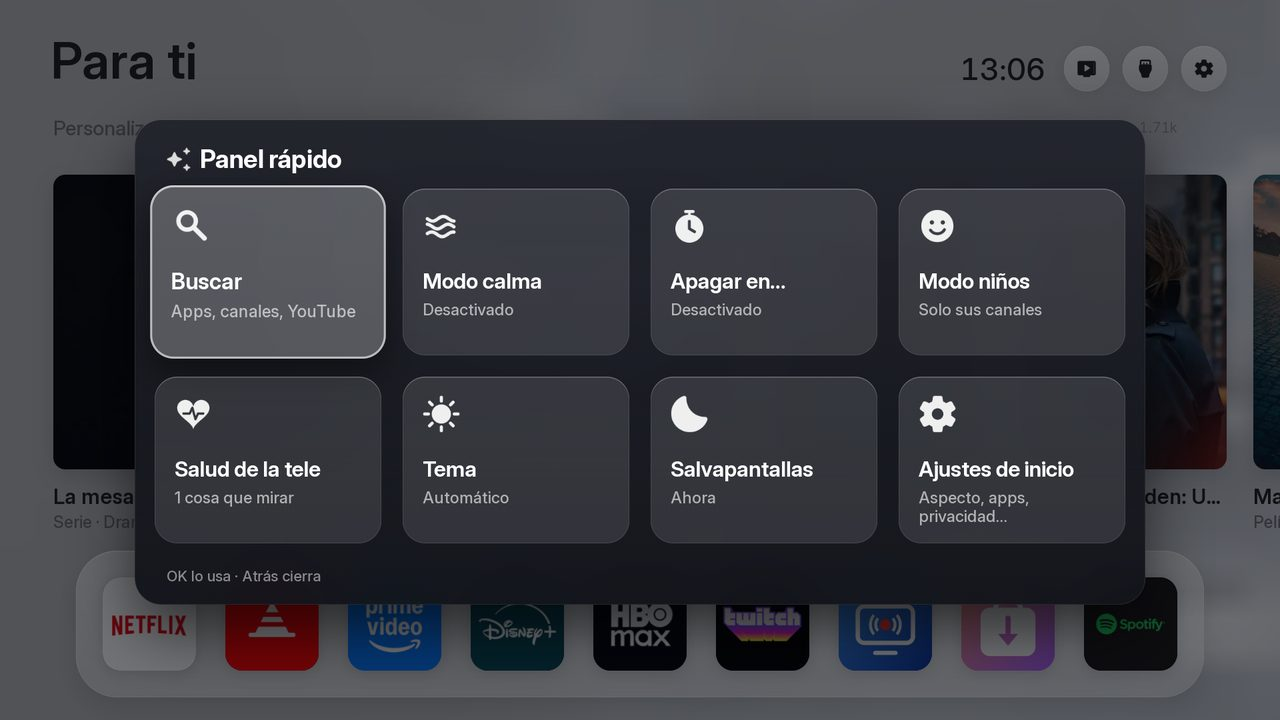
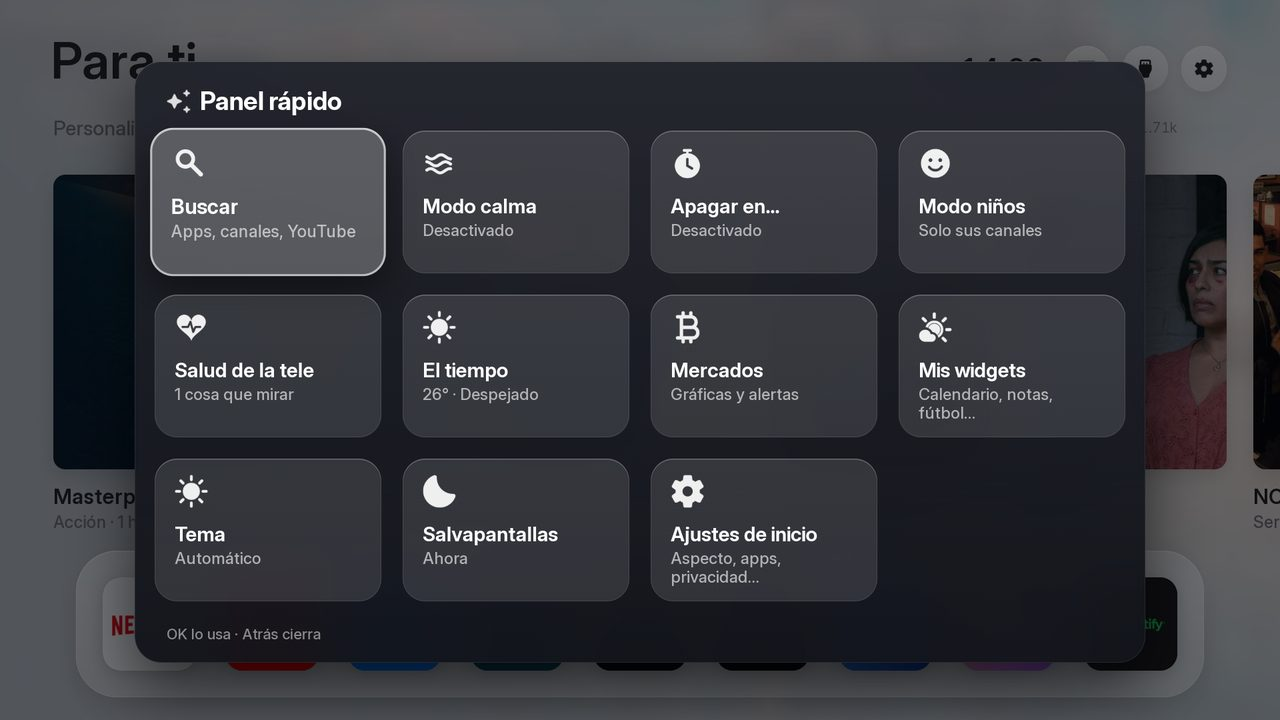
FreeTV 2.1 documented: README (EN/ES) with screenshots from the TV, CHANGELOG, AGENTS

diff --git a/README.md b/README.md
@@ -11,6 +11,42 @@
 
 <table><tr><td width="33%"><img src="docs/screens/ajustes.jpg" alt="Home Settings: language, theme, start tab…"><br><sub>Home Settings: language, theme, start tab…</sub></td><td width="33%"><img src="docs/screens/tienda-instaladas.jpg" alt="The Store lists what you have installed, with its version"><br><sub>The Store lists what you have installed, with its version</sub></td><td width="33%"><img src="docs/screens/tienda-actualizaciones.jpg" alt="Apps with a new version are marked; Update all"><br><sub>Apps with a new version are marked; Update all</sub></td></tr><tr><td width="33%"><img src="docs/screens/modo-desarrollador.jpg" alt="Developer Mode: time left and automatic renewal"><br><sub>Developer Mode: time left and automatic renewal</sub></td><td width="33%"><img src="docs/screens/privacidad-lg.jpg" alt="LG privacy: is the TV listening? (ACR)"><br><sub>LG privacy: is the TV listening? (ACR)</sub></td><td width="33%"><img src="docs/screens/menu-mantener-ok.jpg" alt="Hold OK on a channel: open, move, remove"><br><sub>Hold OK on a channel: open, move, remove</sub></td></tr></table>
 
+### FreeTV 2.1: everything your way
+
+The weather in full, markets with charts and price alerts, a page of widgets, the remote's buttons as shortcuts, a Store you can
+search and filter, profiles, your own tabs, routines and much more. Nothing from before was removed.
+
+<table><tr><td width="33%"><img src="docs/screens/tiempo.jpg" alt="The weather: hours, six days, UV, air, rain in the next hour"><br><sub>The weather: hours, six days, UV, air, rain in the next hour</sub></td><td width="33%"><img src="docs/screens/mercados.jpg" alt="Markets: your quotes with their last 24 hours; OK opens the chart"><br><sub>Markets: your quotes with their last 24 hours; OK opens the chart</sub></td><td width="33%"><img src="docs/screens/mis-widgets.jpg" alt="My widgets: calendar with holidays, countdowns, notes, football, currencies, news"><br><sub>My widgets: calendar with holidays, countdowns, notes, football, currencies, news</sub></td></tr><tr><td width="33%"><img src="docs/screens/tienda-filtros.jpg" alt="The Store: search, filters, order, new apps, my list"><br><sub>The Store: search, filters, order, new apps, my list</sub></td><td width="33%"><img src="docs/screens/perfiles.jpg" alt="Profiles: Family, Kids, Guest, each with its own look and an optional PIN"><br><sub>Profiles: Family, Kids, Guest, each with its own look and an optional PIN</sub></td><td width="33%"><img src="docs/screens/pestanas.jpg" alt="Tabs: show, hide, reorder and rename"><br><sub>Tabs: show, hide, reorder and rename</sub></td></tr></table>
+
+- **The remote:** with FreeTV on screen, **1-9** open the shelf's apps and **0** All Apps; the **red, green, yellow and blue** buttons do what
+  you choose (quick panel, search, weather, markets, my widgets, screensaver, Store, switch profile, TV Settings…). *Home Settings → Remote*.
+- **Weather in full** (yellow button, the quick panel or *Widgets → Full forecast*): the next 12 hours with the chance of rain, six days with
+  their range, feels-like, humidity, wind, UV index, **air quality** and **rain in the next hour** (Open-Meteo, no key).
+- **Markets:** add your own quotes (stocks, indexes, funds, gold, currencies, coins: AAPL, SAN.MC, ^IBEX, EURUSD=X, ADA…), each with its
+  **24-hour line**; OK opens a **chart** (1 day, 5 days, 1 month, 1 year) and **price alerts** ("tell me if it goes above / falls below").
+  Any of them can go on the top row too. Information only, not investment advice.
+- **My widgets:** a **calendar** with your country's public holidays, **countdowns** (Christmas, holidays, birthdays), **notes and reminders**
+  at a time of day, your **football team's** next and last match (TheSportsDB), **currencies**, and **news** headlines from an RSS feed you
+  choose (Google News, El País, RTVE, BBC… or any address; on LG the TV's own store service reads it).
+- **Store:** **search**, **filters** (featured, new, games, media, tools, no root, installed, my list), **order**, a **New** mark on apps that
+  arrived since your last visit, **my list** to keep apps for later, the app's **size and whether it fits**, **what changed** in its last version,
+  **Uninstall** from its page, and **extra repositories** you add yourself (*Home Settings → Apps*). *TV health* tells you when there are new apps.
+- **Look:** ready-made styles (**pure black OLED**, clear glass, warm night, minimal), **dark by schedule** (from-until), **text size**, **glass
+  strength**, **corners**, **app names** under the shelf's icons, **smaller cards** (more per row), **your own background picture**, and the
+  region of the landscapes (Andalucía, Spain, Lithuania).
+- **Tabs:** show, hide, reorder and rename them (*Home Settings → Home → Tabs*, or hold OK on a tab).
+- **Profiles:** **Family, Kids and Guest**, each with its own shelf, tabs and look, and a PIN if you want one.
+- **Shortcuts:** name your **HDMI inputs** (PlayStation, Xbox, Switch, Chromecast…) and put them **on the shelf**; hold OK on any app to put it
+  on the shelf or **in the quick panel**; a YouTube channel can go on the shelf; the last apps you opened show in the drawer.
+- **Screensaver:** **picture of the day** (Wikimedia), **astronomy** (NASA), **your photos** (an Immich shared album) or a **big clock** that moves
+  a little every minute; the weather on it; dimmer at night; and the **screen off** after 10, 30 or 60 minutes (OLED; the sound stays).
+- **Routines:** at a time of day, every day: calm mode on or off, the sleep timer, a theme, the screensaver, a profile.
+- **Kids:** a **daily time limit** in kids mode (a grown-up carries on with the PIN).
+- **Time of use** per app, today and this week, counted only on the TV.
+- **Copies of your settings:** save and restore them on the TV, or take them to the computer or another TV with
+  `node tools/settings_backup.js <IP> export > my-settings.json` (and `import`).
+- **The quick panel** has new tiles: weather, markets, my widgets, profile, time of use, routines, and the apps you put there.
+
 ### FreeTV 2.0: make it yours
 
 Many more settings, new widgets, a Store that tells you what each app is, a quick panel you fill yourself, and proper icons for Live TV and the Store. The TV shows **FreeTV v2.0.0** while it starts. Nothing from before was removed. All changes: [CHANGELOG.md](CHANGELOG.md).
@@ -285,6 +321,46 @@ affiliated with LG.
 ![FreeTV en una LG OLED](docs/screenshot.png)
 
 <table><tr><td width="33%"><img src="docs/screens/ajustes.jpg" alt="Ajustes de inicio: idioma, tema, pestaña de inicio…"><br><sub>Ajustes de inicio: idioma, tema, pestaña de inicio…</sub></td><td width="33%"><img src="docs/screens/tienda-instaladas.jpg" alt="La Tienda enseña lo que tienes instalado, con su versión"><br><sub>La Tienda enseña lo que tienes instalado, con su versión</sub></td><td width="33%"><img src="docs/screens/tienda-actualizaciones.jpg" alt="Las apps con versión nueva salen marcadas; Actualizar todo"><br><sub>Las apps con versión nueva salen marcadas; Actualizar todo</sub></td></tr><tr><td width="33%"><img src="docs/screens/modo-desarrollador.jpg" alt="Modo Desarrollador: tiempo restante y renovación automática"><br><sub>Modo Desarrollador: tiempo restante y renovación automática</sub></td><td width="33%"><img src="docs/screens/privacidad-lg.jpg" alt="Privacidad de LG: ¿la tele escucha? (ACR)"><br><sub>Privacidad de LG: ¿la tele escucha? (ACR)</sub></td><td width="33%"><img src="docs/screens/menu-mantener-ok.jpg" alt="Mantén OK sobre un canal: abrir, mover, quitar"><br><sub>Mantén OK sobre un canal: abrir, mover, quitar</sub></td></tr></table>
+
+### FreeTV 2.1: todo a tu manera
+
+El tiempo completo, mercados con gráficas y alertas de precio, una página de widgets, los botones del mando como atajos, una Tienda con
+búsqueda y filtros, perfiles, tus propias pestañas, rutinas y mucho más. No se ha quitado nada de lo de antes.
+
+<table><tr><td width="33%"><img src="docs/screens/tiempo.jpg" alt="El tiempo: por horas, seis días, UV, aire, lluvia en la próxima hora"><br><sub>El tiempo: por horas, seis días, UV, aire, lluvia en la próxima hora</sub></td><td width="33%"><img src="docs/screens/mercados.jpg" alt="Mercados: tus valores con sus últimas 24 horas; OK abre la gráfica"><br><sub>Mercados: tus valores con sus últimas 24 horas; OK abre la gráfica</sub></td><td width="33%"><img src="docs/screens/mis-widgets.jpg" alt="Mis widgets: calendario con festivos, cuentas atrás, notas, fútbol, divisas, noticias"><br><sub>Mis widgets: calendario con festivos, cuentas atrás, notas, fútbol, divisas, noticias</sub></td></tr><tr><td width="33%"><img src="docs/screens/tienda-filtros.jpg" alt="La Tienda: búsqueda, filtros, orden, apps nuevas, mi lista"><br><sub>La Tienda: búsqueda, filtros, orden, apps nuevas, mi lista</sub></td><td width="33%"><img src="docs/screens/perfiles.jpg" alt="Perfiles: Familia, Niños, Invitado, cada uno con su aspecto y PIN opcional"><br><sub>Perfiles: Familia, Niños, Invitado, cada uno con su aspecto y PIN opcional</sub></td><td width="33%"><img src="docs/screens/pestanas.jpg" alt="Pestañas: mostrar, ocultar, ordenar y renombrar"><br><sub>Pestañas: mostrar, ocultar, ordenar y renombrar</sub></td></tr></table>
+
+- **El mando:** con FreeTV en pantalla, del **1 al 9** abren las apps del estante y el **0** Todas las apps; los botones **rojo, verde, amarillo y
+  azul** hacen lo que elijas (panel rápido, buscar, el tiempo, mercados, mis widgets, salvapantallas, Tienda, cambiar de perfil, Ajustes del TV…).
+  *Ajustes de inicio → Mando*.
+- **El tiempo completo** (botón amarillo, el panel rápido o *Widgets → Previsión completa*): las próximas 12 horas con probabilidad de lluvia,
+  seis días con su máxima y mínima, sensación térmica, humedad, viento, índice UV, **calidad del aire** y **lluvia en la próxima hora**
+  (Open-Meteo, sin clave).
+- **Mercados:** añade tus propios valores (acciones, índices, fondos, oro, divisas, criptos: AAPL, SAN.MC, ^IBEX, EURUSD=X, ADA…), cada uno con
+  su **línea de 24 horas**; OK abre una **gráfica** (1 día, 5 días, 1 mes, 1 año) y **alertas de precio** («avísame si sube de / baja de»). Cualquiera
+  puede ir también en la fila de arriba. Solo información, no es consejo de inversión.
+- **Mis widgets:** un **calendario** con los festivos de tu país, **cuentas atrás** (Navidad, vacaciones, cumpleaños), **notas y recordatorios** a una
+  hora, el próximo y el último partido de **tu equipo de fútbol** (TheSportsDB), **divisas** y titulares de **noticias** de un RSS que elijas
+  (Google News, El País, RTVE, BBC… o cualquier dirección; en LG lo lee el propio servicio de la tienda de la tele).
+- **Tienda:** **búsqueda**, **filtros** (destacadas, nuevas, juegos, multimedia, utilidades, sin root, instaladas, mi lista), **orden**, una marca
+  **Nueva** en las apps que llegaron desde tu última visita, **mi lista** para guardar apps para luego, el **tamaño y si cabe**, **qué cambió** en su
+  última versión, **Desinstalar** desde su ficha y **repositorios extra** que añades tú (*Ajustes de inicio → Apps*). *Salud de la tele* avisa de
+  apps nuevas.
+- **Aspecto:** estilos listos (**OLED negro puro**, cristal claro, nocturno cálido, minimalista), **oscuro por horario** (desde-hasta), **tamaño del
+  texto**, **intensidad del cristal**, **esquinas**, **nombres de las apps** bajo los iconos, **tarjetas más pequeñas** (más por fila), **tu propia
+  foto de fondo** y la región de los paisajes (Andalucía, España, Lituania).
+- **Pestañas:** muéstralas, ocúltalas, ordénalas y renómbralas (*Ajustes de inicio → Inicio → Pestañas*, o mantén OK sobre una pestaña).
+- **Perfiles:** **Familia, Niños e Invitado**, cada uno con su estante, sus pestañas y su aspecto, y un PIN si quieres.
+- **Accesos directos:** pon nombre a tus **entradas HDMI** (PlayStation, Xbox, Switch, Chromecast…) y ponlas **en el estante**; mantén OK sobre
+  cualquier app para ponerla en el estante o **en el panel rápido**; un canal de YouTube también puede ir al estante; en el cajón salen las
+  últimas apps que abriste.
+- **Salvapantallas:** **foto del día** (Wikimedia), **astronomía** (NASA), **tus fotos** (un álbum compartido de Immich) o un **reloj grande** que se
+  mueve un poco cada minuto; con el tiempo; más tenue de noche; y la **pantalla apagada** tras 10, 30 o 60 minutos (OLED; el sonido sigue).
+- **Rutinas:** a una hora, todos los días: modo calma sí o no, el apagado programado, un tema, el salvapantallas, un perfil.
+- **Niños:** un **límite de tiempo diario** en modo niños (un adulto sigue con el PIN).
+- **Tiempo de uso** por app, hoy y esta semana, contado solo en la tele.
+- **Copias de tus ajustes:** guárdalas y restáuralas en la tele, o llévalas al ordenador o a otra tele con
+  `node tools/settings_backup.js <IP> export > mis-ajustes.json` (e `import`).
+- **El panel rápido** tiene casillas nuevas: el tiempo, mercados, mis widgets, perfil, tiempo de uso, rutinas y las apps que pongas ahí.
 
 ### FreeTV 2.0: a tu gusto
 

diff --git a/CHANGELOG.md b/CHANGELOG.md
@@ -3,6 +3,32 @@
 FreeTV's version is the one in `home/appinfo.json`; the TV shows it while FreeTV starts (`home/splash.png`) and at the
 bottom of *Home Settings*. Every change is also in the git history of `main`.
 
+## 2.1.0 (2026-10-28)
+
+**Everything your way.** Nothing from 2.0 was removed.
+
+### New
+- **Remote shortcuts:** 1-9 open the shelf's apps, 0 All Apps; the four colour buttons do what the person chooses (*Home Settings → Remote*).
+  Samsung asks Tizen for those keys.
+- **Weather sheet:** 12 hours with rain chance, six days, feels-like, humidity, wind, UV index, air quality (Open-Meteo air quality API),
+  rain in the next hour (minutely forecast).
+- **Markets sheet:** the person's own quotes (Yahoo Finance symbols, Binance coins), 24-hour sparklines, a chart per quote (1d/5d/1mo/1y),
+  price alerts, and any quote on the top row.
+- **My widgets:** calendar with public holidays (Nager.Date), countdowns, notes and timed reminders, football (TheSportsDB), currencies,
+  news from an RSS feed (read by the TV's store service: the screen cannot, no CORS; new `feed` method).
+- **Store:** search, filters, order, "New" since the last visit, my list, size and free space, release notes from GitHub, Uninstall from the
+  app's page, extra repositories; TV health counts new apps.
+- **Look:** ready-made styles, dark by schedule, text size, glass strength, corners, app names under the icons, smaller cards, own background
+  picture, landscapes by region.
+- **Tabs** shown, hidden, reordered and renamed; **profiles** (Family, Kids, Guest) with their own shelf, tabs and look and an optional PIN.
+- **Shortcuts:** named HDMI inputs on the shelf, any app onto the shelf or the quick panel, a YouTube channel onto the shelf, recent apps in
+  the drawer.
+- **Screensaver:** picture of the day (Wikimedia), astronomy (NASA APOD), an Immich shared album, a big moving clock, the weather on it,
+  dimmer at night, the screen off after a while (LG).
+- **Routines**, a **daily time limit** in kids mode, **time of use** per app, and **copies of the settings** on the TV and on the computer
+  (`tools/settings_backup.js`).
+- **Quick panel:** weather, markets, my widgets, profile, time of use, routines, and the person's apps.
+
 ## 2.0.0 (2026-10-28)
 
 **Make it yours.** Nothing from 1.x was removed.

diff --git a/AGENTS.md b/AGENTS.md
@@ -80,3 +80,19 @@ Holding Home stops the helper and leaves `state/blocked` in `com.local.nativehom
 - Shelf icons FreeTV draws itself: `tools/make_tiles.py` → `assets/tiles/`, used through an app's `tile` field.
 - Changing the version: `home/appinfo.json`, `tizen/config.xml`, `python3 tools/make_splash.py`, and a section in `CHANGELOG.md`.
 
+## 2.1: info sheets and the rest
+
+- `openInfo(kind, arg)` shows a wide glass sheet: `INFO[kind](arg)` returns `{title, icon, build(box), rows, visible, hint, back}`; rows work
+  like Home Settings' (`toggle`, `value` with ‹ ›, `'›'`, `plain`, `run`, `step`, `move` for ◀ ▶). Kinds: weather, markets, addTicker, ticker,
+  widgets, profiles, tabs, routines, usage, inputs, repos. A sheet's data callbacks must only redraw when something new arrived (a cached answer
+  that redraws loops).
+- `runAction(name)` is what the colour keys and routines run; `shortcutKey(k)` handles 0-9 and 403-406.
+- Tabs: `VIS` maps the top row's places to the real tabs (0 Custom, 1 Continue watching, 2-4 picks); always go through it.
+- Profiles copy `PROFILE_KEYS` of the prefs in and out (`switchProfile`).
+- The Store keeps the whole catalogue in `commAll`; `commRebuild()` makes `commList` (search, filter and order rows, "Update all", the apps).
+- Names that depend on the language are computed when shown (`rangeName`, `inputKind`), never in a top-level `var`: `tr()` runs before the
+  language is set.
+- Network sources: Open-Meteo (forecast and air), Yahoo Finance and Binance, Nager.Date, TheSportsDB (test key 123), Wikimedia featured feed,
+  NASA APOD (DEMO_KEY), GitHub releases, an Immich shared link, RSS through the store service's `feed`.
+- German and Russian are not kept up to date for the 2.0/2.1 texts (the person asked for Spanish, English and Portuguese only).
+
